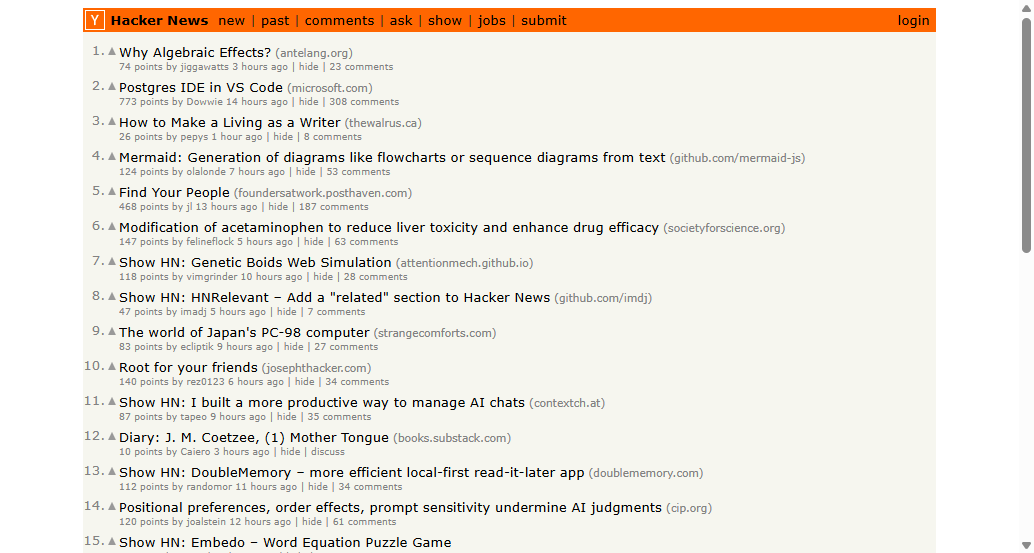
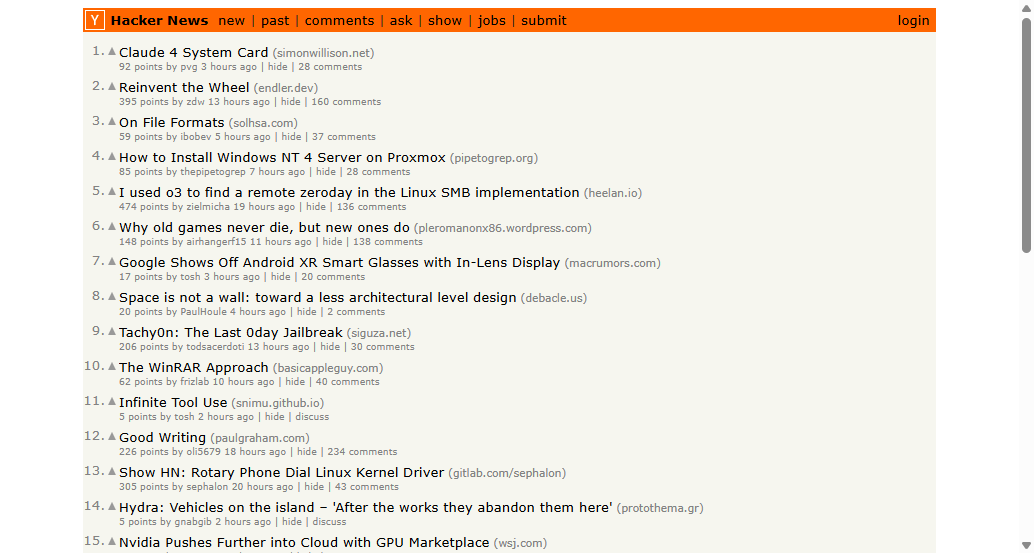
added bs4

Changed region(s): [[0.0928, 0.0615, 0.7737, 1.0]]

diff --git a/scrapingbee/selenium_news.py b/scrapingbee/selenium_news.py
@@ -1,13 +1,38 @@
 from selenium import webdriver
 from selenium.webdriver.chrome.options import Options
 from selenium.webdriver.chrome.service import Service
+import logging
+from bs4 import BeautifulSoup
+
+# Set up logging to troubleshoot if anything goes wrong
+logging.basicConfig(level=logging.INFO, format='%(asctime)s - %(levelname)s - %(message)s')
 
 options = Options()
 options.headless = True
 options.add_argument("--window-size=1920,1200")
 executable_path=r"C:\Program Files (x86)\chromedriver\chromedriver.exe"
 
+logging.info("Initializing WebDriver")
 driver = webdriver.Chrome(service=Service(executable_path))
+logging.info("Loading Hacker News homepage")
 driver.get("https://news.ycombinator.com/")
-driver.save_screenshot('hn_homepage.png')
+
+logging.info("Parsing page source with BeautifulSoup")
+soup = BeautifulSoup(driver.page_source, 'html.parser')
+
+logging.info("Finding all story titles on the page")
+titles = soup.find_all('span', class_='titleline')
+
+if titles:
+    logging.info(f"Found {len(titles)} titles. Printing titles:")
+    # Print each title
+    for title in titles:
+        title_link = title.find('a')
+        if title_link:
+            print(title_link.text)
+else:
+    logging.warning("No titles found on the page.")
+    
+#driver.save_screenshot('hn_homepage.png')
+logging.info("Closing WebDriver")
 driver.quit()
